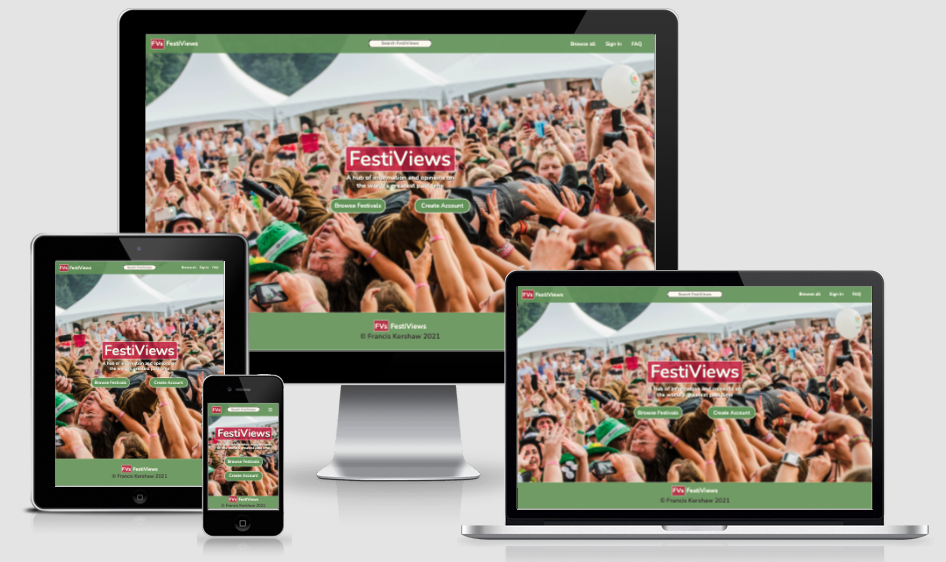
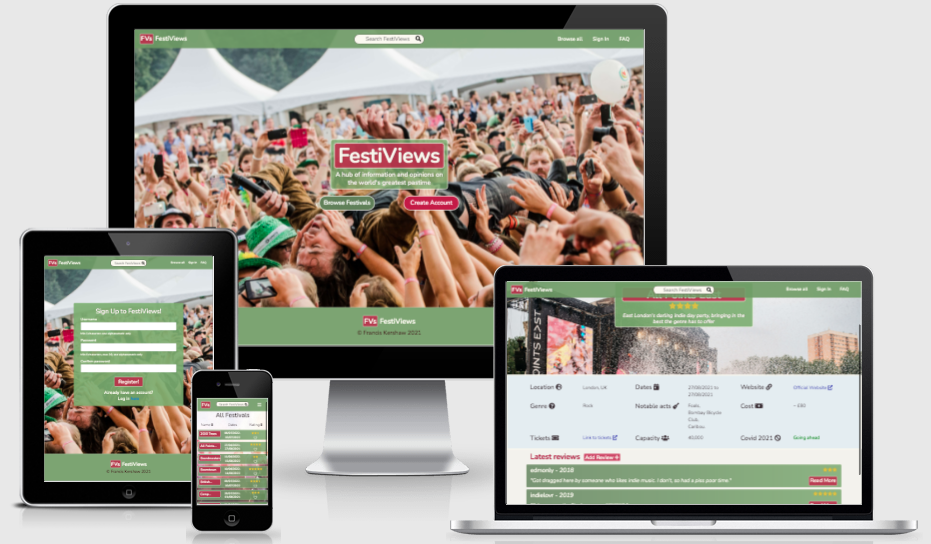
docs: add screenshots to README.md

diff --git a/README.md b/README.md
@@ -6,7 +6,7 @@
 
 FestiViews is an information and reviews hub created for enthusiasts of the world's greatest pastime - music festivals. Users of the site can browse, search for, and 'favourite' the music festivals of their choice in order to learn key information, such as event dates and ticket cost, as well as discovering subjective opinions displayed by other users through the uploading of a festival review (or a 'festivew' if you will). As a frequent attendee of music festivals myself, I have always felt like festival goers have been missing a convenient and modern looking place to find all the relevant information and links for several events at once, and the closest versions of this vision that currently exist are in my opinion outdated and sometimes unpleasant to use. With that in mind, my aim with this project is to lay the basic groundwork for a site that will eventually end up being a vast improvement for user experience compared to what already exists.
 
-This project is the third of four 'milestone' projects which are required to complete the Code Institute's diploma in full stack web development. Assessment criteria for this milestone project focuses on the ability to produce a full-stack site using HTML, CSS, JavaScript, Python, Flask and MongoDB that allows users to manage a common dataset about a particular domain. As such, part of this task involves implementing CRUD (create, read, update, and delete) capabilities to the users 
+This project is the third of four 'milestone' projects which are required to complete the Code Institute's diploma in full stack web development. Assessment criteria for this milestone project focuses on the ability to produce a full-stack site using HTML, CSS, JavaScript, Python, Flask and MongoDB that allows users to manage a common dataset about a particular domain. As such, part of this task involves implementing CRUD (create, read, update, and delete) capabilities for the users and administrators of the site.
 
 You can view the live website [here](https://festiviews.herokuapp.com/), and a link to the github repository can be found [here](https://github.com/franciskershaw/festiviews).
 
@@ -258,9 +258,13 @@ I combined the key associative words with the colour pallette generator found on
 
 #### Typography
 
-After deliberating between upwards of fifteen different fonts that fit the professional aesthetic planned for the site, I eventually settled on 'Nunito' from Google Fonts as this font style worked as equally well for headings and general text alike and ensured everything felt very consistent. 
+After deliberating between upwards of fifteen different fonts that fit the professional aesthetic planned for the site, I eventually settled on 'Nunito' from Google Fonts as this font style worked as equally well for headings and general text alike and ensured everything felt very consistent.
+
+![Nunito screenshot](static/images/nunito.png)
 
 To make sure headings stood out despite being the same font as the rest of the site's content, I tended to include a subtle text shadow on certain pages.
+
+![Text shadow](static/images/heading.png)
 
 ### Data Model
 
@@ -288,11 +292,20 @@ I used the non-relational database MongoDB as my database management system as p
 
 * A fixed navigation bar appears on every page with the logo on the far left, a search bar in the middle (which directs to the 'browse' page, filtering results to only include what was searched for) and links to the other pages on the right: Browse all, Sign in, FAQ. The link to sign in changes to 'Sign out' if the user is logged in, and an extra link to the 'favourites' page appears.
 
+![Navbar](static/images/navbar.png)
+
 * On smaller screen sizes, the navigation bar collapses and is replaced by a standard burger icon, and the name of the site (FestiViews) is hidden, leaving the logo as the main means of returning to the home page.
+
+![Mobile navbar](static/images/mobile-nav.png)
 
 * The footer remains consistent on all pages and contains the logo, site name, and copyright information.
 
+![Footer](static/images/footer.png)
+
 * All buttons and interactable content contain hover properties that indicate the user can click on them, and feedback from user actions (such as adding, editing or deleting reviews and favouriting or unfavouriting festivals) is present through an animated flash message from Flask.
+
+![Hover](static/images/hover.png)
+![Flash](static/images/flash.png)
 
 #### index.html
 
@@ -300,9 +313,14 @@ I used the non-relational database MongoDB as my database management system as p
 
 * The title and tagline appear via a CSS animation, followed shortly by two call to action buttons: 'Browse Festivals' and 'Create Account'. If the user is already logged in, the create account button is removed from the page.
 
+![Homepage screenshot](static/images/homepage.png)
+
 #### sign_up.html, login.html
 
 * Both the registration and login pages contain a simple form to input a username and password, and a handy link to the other page for users who are either new and need an account, or existing users who need to be directed to the login page.
+
+![Register screenshot](static/images/register.png)
+![Login screenshot](static/images/login.png)
 
 #### favourites.html
 
@@ -310,19 +328,34 @@ I used the non-relational database MongoDB as my database management system as p
 
 * If no favourites have been added, a large message saying 'You haven't added any favourites yet' appears, followed instantly by a CTA button that directs the user to browse.html so that favourites can be added.
 
+![No favourites screenshot](static/images/no-favourites.png)
+
 * If there are favourites on the user's account, they appear as a list in alphabetical order, containing a link to the specific festival 'hub', the location of the festival, the date, the average user rating (if any ratings have been added) and the heart icon that can be clicked to remove that festival from the favourites.
+
+![Favourites screenshot](static/images/favourites.png)
 
 #### browse.html
 
 * This page is the list of all available festivals to browse, all of which are uploaded by admin users (myself in this case). Similar to the layout of the user's personal favourites page, the festivals appear one after the other in their own separate rows.
 
+![Browse screenshot](static/images/browse.png)
+
 * Only the first 10 festivals appear to begin with, but the user can show 10 more by clicking on the 'view more' button at the bottom of the page.
+
+![View more screenshot](static/images/view-more.png)
 
 * Users can elect to arrange the festivals alphabetically (a-z) or by user rating (high to low).
 
+![Sort A-Z](static/images/name-sort.png)
+![Sort rating](static/images/rating-sort.png)
+
 * The heart appears as an empty clickable icon to add a festival to the favourites page. If the festival has already been added to the favourites, it appears already filled in.
 
+![Heart browse](static/images/heart-browse.png)
+
 * If the administrator is logged in, an 'Add' button appears in the top right of the page, which directs the admin user to the add_festival page.
+
+![Add festival](static/images/admin-browse.png)
 
 #### view_festival.html
 
@@ -330,11 +363,19 @@ I used the non-relational database MongoDB as my database management system as p
 
 * The first section of the hub contains a festival specific hero image, the festival name as an *h1*, and a very short description of the festival itself. If the user is logged in, a large heart icon also appears directly beneath the *h1* which can be clicked on to either add the festival to the favourites page or remove it if it has already been favourited.
 
+![Hub hero screenshot](static/images/hub-hero-section.png)
+
 * If any reviews have been posted for the festival in question, then the calculated average rating appears as stars beneath the heart icon.
 
-* If the logged in user is the administrator, two 
+![Average rating](static/images/average-rating.png)
 
-* The key information for the festival appears just beneath the hero section. This is all pulled from the admin only form when adding a new festival and is responsive to the screen size in use. JavaScript is on 2 fields of information, by changing the colour of the Covid 2021 status to green or red depending on whether the festival is going ahead or not, and by changing an empty Notable Acts field to 'No announcement yet' if the administrator has left those fields empty.
+* If the logged in user is the administrator, two buttons appear which allow for the editing or deleting of the festival hubs. These are not visible to normal users.
+
+![Edit/delete festival](static/images/edit-festival.png)
+
+* The key information for the festival appears just beneath the hero section. This is all pulled from the admin only form when adding a new festival and is responsive to the screen size in use. JavaScript is used on two fields of information, by changing the colour of the Covid 2021 status to green or red depending on whether the festival is going ahead or not, and by changing an empty Notable Acts field to 'No announcement yet' if the administrator has left those fields empty.
+
+![Hub information screenshot](static/images/hub-information.png)
 
 * The final section of the page is the reviews section, starting with a heading and an 'Add Review' button. The add review button appears for all users, but if a user is not logged in this link will actually direct the user to the registration page.
 
@@ -342,13 +383,22 @@ I used the non-relational database MongoDB as my database management system as p
 
 * A 'Read More' button is available to reveal the rest of the review, which contains supplementary ratings out of five for everything from location to food.
 
+![Add reviews section](static/images/add-reviews-section.png)
+
 * Much like on browse.html, if there are more than ten reviews for the festival, pagination is present to allow the user the opportunity to see older reviews.
 
+![See older](static/images/see-older.png)
+
 * If there are no reviews available for the festival yet, a message reads 'No reviews added yet, be the first to add one!'
+
+![No reviews](static/images/no-reviews.png)
 
 #### add/edit_review.html, add/edit_fesival.html
 
 * The forms to add and edit both reviews and festivals (for admin users only) are very similar in layout and style, with the same background image and see through background colour.
+
+![Add festival form](static/images/add-festival.png)
+![Edit review form](static/images/edit-review.png)
 
 * All fields ending with a star contain the *required* attribute in the HTML, which stops the user from being to submit the form without filling them in.
 
@@ -357,6 +407,8 @@ I used the non-relational database MongoDB as my database management system as p
 #### faq.html
 
 * The frequently asked questions page is a simple static page containing a Bootstrap accordion, on which each expandable and collapsable card contains a commonly asked question about the site, and the answer to that question.
+
+![FAQ](static/images/faq-screenshot.png)
 
 ### Defensive design features
 
@@ -374,7 +426,11 @@ Using a mixture of jinja templating logic and application of Bootrap's modal com
 
 * Buttons used to edit or delete user submitted reviews will only appear if the user who submitted the review is logged in. If the delete button is clicked, instead of deleting the review a modal is launched which offers the user the choice to either proceed with deleting the review or cancel and return to the page.
 
+![Delete review modal](static/images/delete-review.png)
+
 * The button to add a new festival (on browse.html) is only visible if the administrator is logged in, as are the edit and delete festival buttons in the top right of view_festival.html. The same defensive measure regarding the delete button is present, giving the administrator the chance to change their mind if needs be.
+
+![Delete festival modal](static/images/delete-festival.png)
 
 * On the forms themselves, the required attribute is present on every input or select element that is needed for submission, meaning that the form cannot be submitted without including these fields. Maxlength is also used on the text field for reviews to ensure users do not go overboard on their reviews.
 
